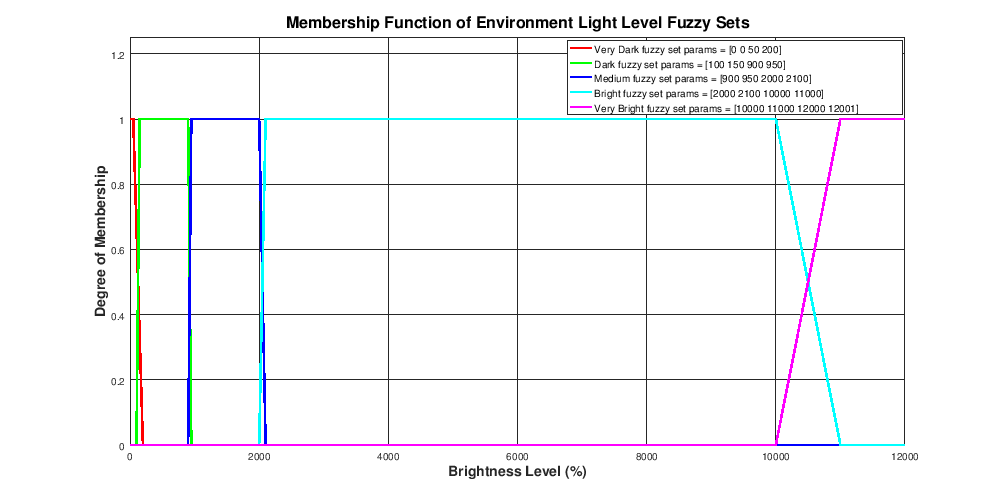
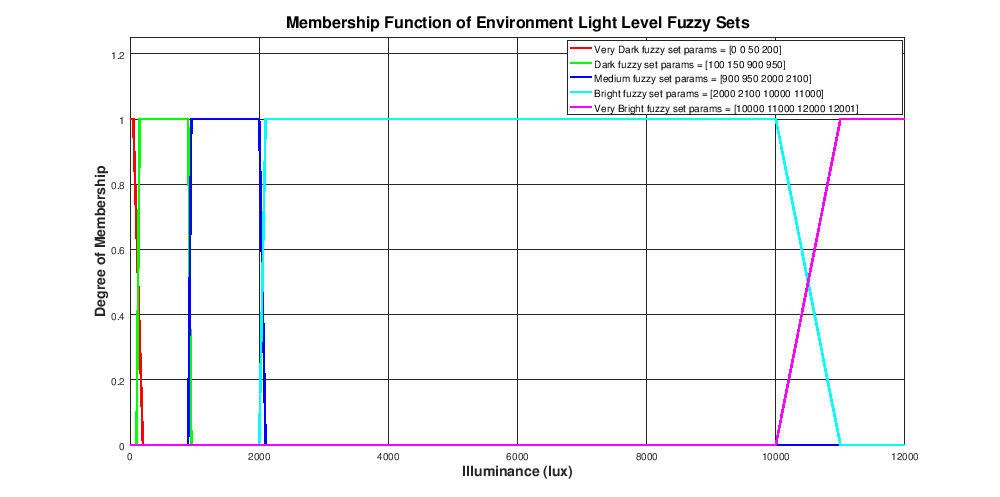
Fix unmatched vars

diff --git a/fuzzy-logic/plot_light_level_membership_functions.m b/fuzzy-logic/plot_light_level_membership_functions.m
@@ -2,23 +2,23 @@ global_configs;
 save_figure_name = "membership_function_light_level_fuzzy_sets.png";
 
 x = 0:10:12000;
-VD = trapezoidal_shaped (x, VeryDark_params, e);
-D = trapezoidal_shaped (x, Dark_params, e);
-M = trapezoidal_shaped (x, Medium_params, e);
-B = trapezoidal_shaped (x, Bright_params, e);
-VB = trapezoidal_shaped (x, VeryBright_params, e);
+VD = trapezoidal_shaped (x, LightLevel.VeryDark.params, e);
+D = trapezoidal_shaped (x, LightLevel.Dark.params, e);
+M = trapezoidal_shaped (x, LightLevel.Medium.params, e);
+B = trapezoidal_shaped (x, LightLevel.Bright.params, e);
+VB = trapezoidal_shaped (x, LightLevel.VeryBright.params, e);
 figure('Name', 'Membership Functions of Environment Light Level Fuzzy Sets', "Position", POSITION_FIGURE, 'NumberTitle', 'off');
-plot(x,VD, 'LineWidth', 2, ['r;Very Dark fuzzy set params = '  mat2str(VeryDark_params) ';']);
+plot(x,VD, 'LineWidth', 2, ['r;Very Dark fuzzy set params = '  mat2str(LightLevel.VeryDark.params) ';']);
 hold on;
-plot(x,D, 'LineWidth', 2, ['g;Dark fuzzy set params = '  mat2str(Dark_params) ';']);
+plot(x,D, 'LineWidth', 2, ['g;Dark fuzzy set params = '  mat2str(LightLevel.Dark.params) ';']);
 hold on;
-plot(x,M, 'LineWidth', 2, ['b;Medium fuzzy set params = '  mat2str(Medium_params) ';']);
+plot(x,M, 'LineWidth', 2, ['b;Medium fuzzy set params = '  mat2str(LightLevel.Medium.params) ';']);
 hold on;
-plot(x,B, 'LineWidth', 2, ['c;Bright fuzzy set params = '  mat2str(Bright_params) ';']);
+plot(x,B, 'LineWidth', 2, ['c;Bright fuzzy set params = '  mat2str(LightLevel.Bright.params) ';']);
 hold on;
-plot(x,VB, 'LineWidth', 2, ['m;Very Bright fuzzy set params = '  mat2str(VeryBright) ';']);
+plot(x,VB, 'LineWidth', 2, ['m;Very Bright fuzzy set params = '  mat2str(LightLevel.VeryBright.params) ';']);
 title('Membership Function of Environment Light Level Fuzzy Sets', 'fontsize', 16)
-xlabel('Brightness Level (%)', 'FontWeight', 'bold', 'fontsize', 14);
+xlabel('Illuminance (lux)', 'FontWeight', 'bold', 'fontsize', 14);
 ylabel('Degree of Membership', 'FontWeight', 'bold', 'fontsize', 14);
 ylim([-0.00 1.25]);
 grid;

diff --git a/fuzzy-logic/plot_brightness_membership_fuctions.m b/fuzzy-logic/plot_brightness_membership_fuctions.m
@@ -2,21 +2,21 @@ global_configs;
 save_figure_name = "membership_function_screen_brightness_fuzzy_sets.png";
 
 x = 0:0.1:100;
-VL = trapezoidal_shaped (x, VeryLow_params, e);
-L = trapezoidal_shaped (x, Low_params, e);
-M = trapezoidal_shaped (x, Moderate_params, e);
-H = trapezoidal_shaped (x, High_params, e);
-VH = trapezoidal_shaped (x, VeryHigh_params, e);
+VL = trapezoidal_shaped (x, Brightness.VeryLow.params, e);
+L = trapezoidal_shaped (x, Brightness.Low.params, e);
+M = trapezoidal_shaped (x, Brightness.Moderate.params, e);
+H = trapezoidal_shaped (x, Brightness.High.params, e);
+VH = trapezoidal_shaped (x, Brightness.VeryHigh.params, e);
 figure('Name', 'Membership Functions of Screen Brightness Fuzzy Sets', "Position", POSITION_FIGURE, 'NumberTitle', 'off');
-plot(x,VL, 'LineWidth', 2, ['r;Very Low fuzzy set params = '  mat2str(VeryLow_params) ';']);
+plot(x,VL, 'LineWidth', 2, ['r;Very Low fuzzy set params = '  mat2str(Brightness.VeryLow.params) ';']);
 hold on;
-plot(x,L, 'LineWidth', 2, ['g;Low fuzzy set params = '  mat2str(Low_params) ';']);
+plot(x,L, 'LineWidth', 2, ['g;Low fuzzy set params = '  mat2str(Brightness.Low.params) ';']);
 hold on;
-plot(x,M, 'LineWidth', 2, ['b;Moderate fuzzy set params = '  mat2str(Moderate_params) ';']);
+plot(x,M, 'LineWidth', 2, ['b;Moderate fuzzy set params = '  mat2str(Brightness.Moderate.params) ';']);
 hold on;
-plot(x,H, 'LineWidth', 2, ['c;High fuzzy set params = '  mat2str(High_params) ';']);
+plot(x,H, 'LineWidth', 2, ['c;High fuzzy set params = '  mat2str(Brightness.High.params) ';']);
 hold on;
-plot(x,VH, 'LineWidth', 2, ['m;Very High fuzzy set params = '  mat2str(VeryHigh_params) ';']);
+plot(x,VH, 'LineWidth', 2, ['m;Very High fuzzy set params = '  mat2str(Brightness.VeryHigh.params) ';']);
 title('Membership Function of Screen Brightness Fuzzy Sets', 'fontsize', 16)
 xlabel('Brightness Level (%)', 'FontWeight', 'bold', 'fontsize', 14);
 ylabel('Degree of Membership', 'FontWeight', 'bold', 'fontsize', 14);

diff --git a/fuzzy-logic/plot_fog_density_membership_functions.m b/fuzzy-logic/plot_fog_density_membership_functions.m
@@ -2,15 +2,15 @@ global_configs;
 save_figure_name = "membership_function_fog_density_fuzzy_sets.png";
 
 x = 0:0.1:3;
-Thin = trapezoidal_shaped (x, Thin_params, e);
-Medium = trapezoidal_shaped (x, Medium_params, e);
-Thick = trapezoidal_shaped (x, Thick_params, e);
+Thin = trapezoidal_shaped (x, FogDensity.Thin.params, e);
+Medium = trapezoidal_shaped (x, FogDensity.Medium.params, e);
+Thick = trapezoidal_shaped (x, FogDensity.Thick.params, e);
 figure('Name', 'Membership Functions of Fog Density Fuzzy Sets', "Position", POSITION_FIGURE, 'NumberTitle', 'off');
-plot(x,Thin, 'LineWidth', 2, ['r;Thin fuzzy set params = '  mat2str(Thin_params) ';']);
+plot(x,Thin, 'LineWidth', 2, ['r;Thin fuzzy set params = '  mat2str(FogDensity.Thin.params) ';']);
 hold on;
-plot(x,Medium, 'LineWidth', 2, ['g;Medium fuzzy set params = '  mat2str(Medium_params) ';']);
+plot(x,Medium, 'LineWidth', 2, ['g;Medium fuzzy set params = '  mat2str(FogDensity.Medium.params) ';']);
 hold on;
-plot(x,Thick, 'LineWidth', 2, ['b;Thick fuzzy set params = '  mat2str(Thick_params) ';']);
+plot(x,Thick, 'LineWidth', 2, ['b;Thick fuzzy set params = '  mat2str(FogDensity.Thick.params) ';']);
 title('Membership Function of Fog Density Fuzzy Set', 'fontsize', 16)
 xlabel('LWC (g/m^3)', 'FontWeight', 'bold', 'fontsize', 14);
 ylabel('Degree of Membership', 'FontWeight', 'bold', 'fontsize', 14);
